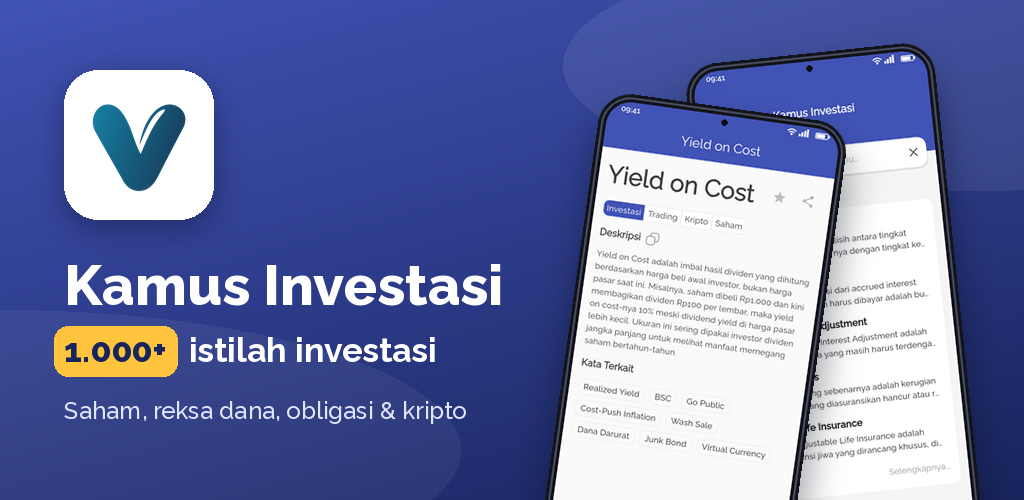
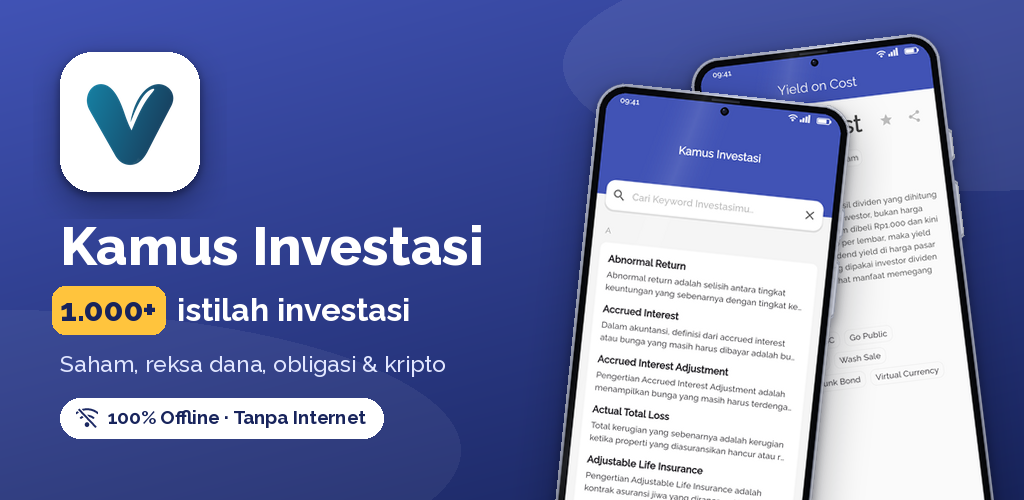
Store assets: realistic mockups, hide nav bar, highlight offline
- Hero screenshot puts the home screen in front of the detail screen
- Phones sit lower so the bottom navigation bar is cropped out
- Mockups get a metal frame, side buttons, camera lens and glass glare
- New 02_offline screenshot (airplane-mode status bar) and a
  "100% Offline" badge on the hero shot and feature graphic

Claude-Session: https://claude.ai/code/session_015jcrmqsmjU78dqSSCusjph

Changed region(s): [[0.5312, 0.06, 0.9688, 1.0], [0.0312, 0.09, 0.5, 0.9], [0.875, 0.93, 0.9062, 0.96]]

diff --git a/store/README.md b/store/README.md
@@ -4,10 +4,11 @@
 | --- | --- | --- |
 | `icon_512.png` | Listing toko → Ikon aplikasi | 512×512 PNG |
 | `feature_graphic_1024x500.png` | Listing toko → Grafis fitur | 1024×500 PNG, tanpa transparansi |
-| `screenshots/01_istilah.png` … `06_history.png` | Listing toko → Screenshot ponsel (urut sesuai nomor) | 1080×1920 PNG (9:16) |
+| `screenshots/01_istilah.png` … `07_history.png` | Listing toko → Screenshot ponsel (urut sesuai nomor) | 1080×1920 PNG (9:16) |
 
 Screenshot dirender dari UI aplikasi yang asli (data kamus versi saat ini), lalu dipasang di mockup
-ponsel. Angka "1.000+" merujuk ke jumlah istilah di `assets/datasets/dictionaries.json`.
+ponsel. Screenshot 01 memakai dua mockup bertumpuk dengan badge "100% Offline"; 02 menonjolkan
+fitur offline (status bar mode pesawat). Navbar bawah sengaja dipotong. Angka "1.000+" merujuk ke jumlah istilah di `assets/datasets/dictionaries.json`.
 
 ## Teks listing (saran)
 

diff --git a/CLAUDE.md b/CLAUDE.md
@@ -155,7 +155,8 @@ migrate.
   `launcher_monochrome.png` (Android 13 themed icon).
 - `store/` — Play Console assets (not bundled): `icon_512.png`, `feature_graphic_1024x500.png`,
   `screenshots/` (1080×1920, rendered from the real UI). See `store/README.md`. The hero
-  screenshot and feature graphic say "1.000+" — keep that true if entries are ever removed.
+  screenshot and feature graphic say "1.000+" and "100% Offline" — keep both true (no
+  network-only features, entries never drop below 1,000).
 
 ## Conventions
 

diff --git a/CHANGELOG.md b/CHANGELOG.md
@@ -26,7 +26,7 @@
   `?`; sebelumnya pencarian bisa error jika kata kunci mengandung tanda kutip, dan query gagal
   di versi SQLite yang tidak lagi menerima kutip ganda sebagai teks
 * Menambahkan aset Play Console di folder `store/`: ikon 512, feature graphic 1024x500, dan
-  6 screenshot ponsel
+  7 screenshot ponsel dengan mockup realistis, termasuk highlight "1.000+" dan fitur offline
 
 ## 1.0.9 (11)
 
